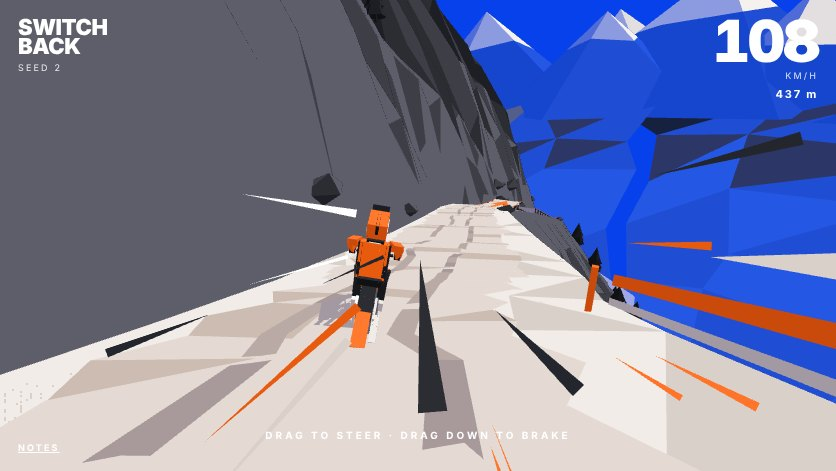
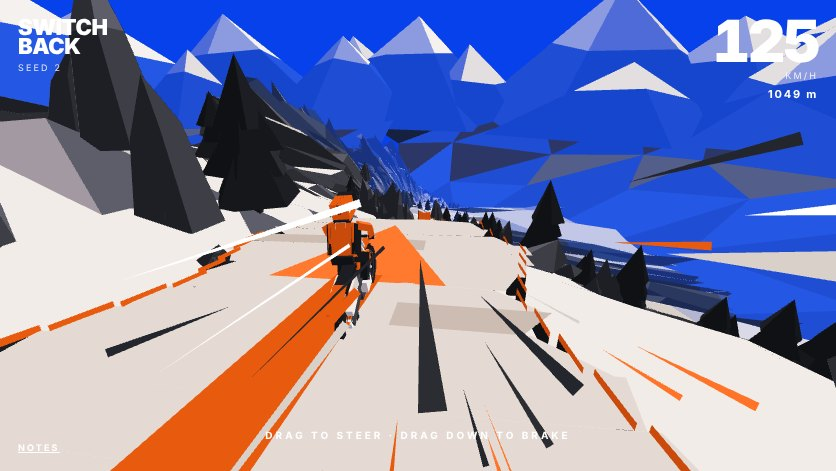
lab: Switchback rides free (no line-following), the rear slides, the mountain varies
The bike now has a heading and a travel: steering turns the bike, the
travel follows through the tyres' grip (less at speed and braking), so
hard turns step the rear out, scrubbing pace and throwing roost; hands
off it runs straight on (the ride test now checks that). Kinks are
short and sharp but rideable; the width never settles (pinches, wide
flats). The wall drifts from snowy bank to cliff, the drop from shelf
to sheer, with rock outcrops beside the route and crags on both sides.
The eye follows the travel, so a slide shows as the bike yawing.

Claude-Session: https://claude.ai/code/session_01D2Nx3PayKJtFYoab5A57H3

diff --git a/cells/lab/client/switchback/sim.ts b/cells/lab/client/switchback/sim.ts
@@ -1,9 +1,10 @@
 /**
  * Switchback's rider: arcade physics, readable at speed.
  *
- * On the ground the bike is held in the course's own frame: how far down the line (s), how far across it (u), and its
- * angle off the line (psi), which your steering sets; so with no input it follows the line round its bends, and a steer
- * carries you across it. The fall of the hill drives you on, the engine adds to it, the air holds you back. Off a ramp's lip,
+ * On the ground the bike goes where it's pointed: your steering turns the bike itself, and nothing turns it for you, so
+ * with no input it runs straight on and a bend has to be ridden. The way you're travelling follows the way the bike points
+ * through the tyres' grip, which gives at speed: turn hard and the rear steps out, the bike yawed past its line, sliding
+ * (scrubbing pace, throwing roost). Where you are on the course (s down it, u across it) is read back from the world. The fall of the hill drives you on, the engine adds to it, the air holds you back. Off a ramp's lip,
  * or over a crest steeper than you can hold, you fly (a ballistic arc, steerable a little), and come down on whatever's
  * under you. Off the drop side, too far: a fall, and back on the line. Into the wall: a glance off it, the pace lost.
  */
@@ -15,7 +16,8 @@ export interface Input { steer: number; brake: boolean }
 
 export class Rider {
   s = 2; u = 0; psi = 0; v = 18;
-  x = 0; y = 0; z = 0; vx = 0; vy = 0; vz = 0; heading = 0;
+  /** heading: the way the bike points; travel: the way it's going (the difference is the slide) */
+  x = 0; y = 0; z = 0; vx = 0; vy = 0; vz = 0; heading = 0; travel = 0; slip = 0;
   air = false; airT = 0; crashT = 0;
   /** for the eye and the model: lean into the turn, pitch with the ground or the flight, the suspension's give */
   lean = 0; pitch = 0; squash = 0; steerK = 0;
@@ -25,7 +27,7 @@ export class Rider {
   /** the ground's own vertical pace under you last step (NaN: just come down, nothing to compare yet) */
   private vyGround = NaN; private headingWas = 0;
   constructor(readonly course: Course) { this.place(); }
-  private place() { const p = this.course.point(this.s, this.u); this.x = p.x; this.y = p.y; this.z = p.z; this.heading = p.heading - this.psi; }
+  private place() { const p = this.course.point(this.s, this.u); this.x = p.x; this.y = p.y; this.z = p.z; this.heading = this.travel = p.heading - this.psi; this.slip = 0; }
   private ev(kind: Event['kind'], k: number) { this.events.push({ kind, x: this.x, y: this.y, z: this.z, k }); if (this.events.length > 64) this.events.shift(); }
 
   step(dt: number, inp: Input) {
@@ -48,14 +50,25 @@ export class Rider {
     let a = G * grade * 0.5 * 0.85 + (this.v < VMAX ? 11 * (1 - this.v / VMAX) : 0) - 0.0022 * this.v * this.v - (inp.brake ? 18 : 0);
     if (Math.abs(this.u) > half) a -= 6;
     this.v = Math.max(4, this.v + a * dt);
-    // (steering: your input sets the angle off the line, more at low speed; a little self-centring so a bend's held)
-    const want = this.steerK * (0.55 - 0.25 * Math.min(1, this.v / VMAX));
-    this.psi += (want - this.psi) * (1 - Math.exp(-dt * 6));
-    const ds = this.v * Math.cos(this.psi) * dt, du = this.v * Math.sin(this.psi) * dt;
-    const yBefore = this.y;
-    this.s += ds; this.u += du; this.dist += ds;
-    // (the wall, on the left: a glance off it; the drop, on the right: over the edge)
-    if (this.u < -half - 1.4) { this.u = -half - 1.4; this.psi = Math.abs(this.psi) * 0.5; this.v *= 0.72; this.ev('wall', this.v / VMAX); }
+    // (steering turns the bike, quicker at low speed; + is right, which turns the heading down)
+    const maxYaw = 3.4 / (1 + this.v / 60);
+    this.heading -= this.steerK * maxYaw * dt;
+    // (the travel follows the bike through the tyres' grip, less of it at speed and braking; the slide self-aligns slowly,
+    // and scrubs pace)
+    const grip = 10 - 6 * Math.min(1, this.v / VMAX) - (inp.brake ? 3 : 0);
+    this.travel += wrap(this.heading - this.travel) * (1 - Math.exp(-dt * grip));
+    this.slip = wrap(this.heading - this.travel);
+    this.heading -= this.slip * dt * 1.5;
+    this.v = Math.max(4, this.v - Math.abs(this.slip) * this.v * 0.5 * dt);
+    const yBefore = this.y, sWas = this.s;
+    this.x += Math.sin(this.travel) * this.v * dt; this.z += Math.cos(this.travel) * this.v * dt;
+    const loc = c.locate(this.x, this.z, this.s); this.s = loc.s; this.u = loc.u; this.dist += Math.max(0, this.s - sWas);
+    // (the wall, on the left: a glance off it, turned back along the line; the drop, on the right: over the edge)
+    if (this.u < -half - 1.4) {
+      this.u = -half - 1.4; const w = c.point(this.s, this.u); this.x = w.x; this.z = w.z;
+      this.travel = this.heading = w.heading - 0.12; this.v *= 0.72; this.ev('wall', this.v / VMAX);
+    }
+    this.psi = wrap(c.point(this.s, 0).heading - this.travel);
     const p = c.point(this.s, this.u);
     // (a ramp's lip, or a crest that falls away faster than you'd drop: you fly; off the edge, or onto nothing: you fall)
     if (here.feature === 'ramp' && p.feature !== 'ramp') { this.launch(yBefore, dt, false); return; }
@@ -68,20 +81,20 @@ export class Rider {
     // (the suspension takes up each step the ground throws you up by)
     if (!Number.isNaN(this.vyGround)) this.squash = Math.min(1, this.squash + Math.max(0, vyG - this.vyGround) * 0.07);
     this.vyGround = vyG;
-    this.x = p.x; this.y = p.y; this.z = p.z; this.heading = p.heading - this.psi;
-    const fx = Math.sin(this.heading), fz = Math.cos(this.heading);
+    this.y = p.y;
+    const fx = Math.sin(this.travel), fz = Math.cos(this.travel);
     this.vx = fx * this.v; this.vz = fz * this.v; this.vy = vyG;
     // (lean: what the turn asks, its pace times how fast the heading's swinging, against gravity; + leans right)
-    const yaw = wrap(this.heading - this.headingWas) / dt; this.headingWas = this.heading;
+    const yaw = wrap(this.travel - this.headingWas) / dt; this.headingWas = this.travel;
     this.lean += (Math.max(-0.95, Math.min(0.95, Math.atan2(-this.v * yaw, G))) - this.lean) * (1 - Math.exp(-dt * 8));
     this.pitch += (Math.atan2(-vyG, this.v) - this.pitch) * (1 - Math.exp(-dt * 10));
     this.squash *= Math.exp(-dt * 6);
-    if (Math.random() < dt * (6 + this.v * 0.6)) this.ev('roost', this.v / VMAX);
+    if (Math.random() < dt * (6 + this.v * 0.6 + Math.abs(this.slip) * 120)) this.ev('roost', Math.min(1, this.v / VMAX + Math.abs(this.slip) * 2));
   }
   private launch(yBefore: number, dt: number, edge: boolean, lip = !edge) {
     // (off: the flight keeps the way you were carried, and the rise the ground was giving you; a lip gives a little pop)
     this.air = true; this.airT = 0;
-    const fx = Math.sin(this.heading), fz = Math.cos(this.heading);
+    const fx = Math.sin(this.travel), fz = Math.cos(this.travel);
     this.vx = fx * this.v; this.vz = fz * this.v; this.vy = (this.vyGround || 0) + (lip ? 1.2 : 0);
     this.x += this.vx * dt; this.z += this.vz * dt; this.y = yBefore + this.vy * dt;
     if (lip) { this.jumps++; this.ev('launch', 1); }
@@ -93,7 +106,7 @@ export class Rider {
     const nvx = this.vx * c + this.vz * s, nvz = -this.vx * s + this.vz * c; this.vx = nvx; this.vz = nvz;
     this.vy -= G * dt; this.vx *= 1 - 0.002; this.vz *= 1 - 0.002;
     this.x += this.vx * dt; this.y += this.vy * dt; this.z += this.vz * dt;
-    this.heading = Math.atan2(this.vx, this.vz);
+    this.travel = Math.atan2(this.vx, this.vz); this.heading = this.travel + this.slip; this.slip *= Math.exp(-dt * 3);
     const loc = this.course.locate(this.x, this.z, this.s); this.s = loc.s; this.u = loc.u;
     const p = this.course.point(this.s, this.u), half = p.width / 2;
     this.pitch += (Math.atan2(-this.vy, Math.hypot(this.vx, this.vz)) * 0.8 - this.pitch) * (1 - Math.exp(-dt * 3));
@@ -104,9 +117,9 @@ export class Rider {
     if (over && this.y <= p.y && p.y - this.y > 1.2) { this.crash(); return; }
     if (over && this.y <= p.y) {
       // (down: on the line again, its pace the flight's along the line; a hard one squashes and costs a little)
-      const imp = -this.vy, along = this.vx * Math.sin(p.heading) + this.vz * Math.cos(p.heading);
-      this.air = false; this.y = p.y; this.v = Math.max(6, along * (imp > 14 ? 0.86 : imp > 8 ? 0.97 : 1));
-      this.psi = Math.max(-0.6, Math.min(0.6, Math.atan2(-this.vx * Math.cos(p.heading) + this.vz * Math.sin(p.heading), along)));
+      const imp = -this.vy;
+      this.air = false; this.y = p.y; this.v = Math.max(6, Math.hypot(this.vx, this.vz) * (imp > 14 ? 0.86 : imp > 8 ? 0.97 : 1));
+      this.travel = Math.atan2(this.vx, this.vz); this.headingWas = this.travel;
       this.bestAir = Math.max(this.bestAir, this.airT); this.squash = Math.min(1, imp / 12); this.vyGround = NaN;
       this.ev('land', Math.min(1, imp / 10));
       return;
@@ -117,8 +130,10 @@ export class Rider {
   private crash() { this.crashT = 1.1; this.crashes++; this.ev('crash', 1); this.air = true; }
 }
 
-/** a steer that keeps to the line (for `auto`, the preview and the tests): back toward the middle, a little ahead */
+/** a steer that keeps to the line (for `auto`, the preview and the tests): pure pursuit of a point on the line ahead,
+ * further ahead the faster you go, steering the way you're travelling (so a slide is ridden, not fought) */
 export function autoSteer(r: Rider) {
-  return Math.max(-1, Math.min(1, -r.u * 0.25 - r.psi * 1.5));
+  const P = r.course.point(r.s + 7 + r.v * 0.3, 0), want = Math.atan2(P.x - r.x, P.z - r.z);
+  return Math.max(-1, Math.min(1, -wrap(want - r.travel) * 4));
 }
 const wrap = (a: number) => Math.atan2(Math.sin(a), Math.cos(a));

diff --git a/cells/lab/client/switchback/mesh.ts b/cells/lab/client/switchback/mesh.ts
@@ -73,6 +73,18 @@ export class Mesh {
     }
     this.box([x, y, z], [1, 0, 0], [0, 1, 0], [0, 0, 1], [0, h * 0.08, 0], [h * 0.03, h * 0.09, h * 0.03], m);
   }
+  /** a crag: a few tall jagged rock towers leaning together */
+  crag(x: number, y: number, z: number, h: number, seed: number) {
+    const n = 2 + Math.floor(hash(seed, 1) * 3);
+    for (let t = 0; t < n; t++) {
+      const a = hash(seed, t, 2) * 6.28, d = t ? h * 0.25 * hash(seed, t, 3) : 0, hh = h * (t ? 0.45 + 0.4 * hash(seed, t, 4) : 1), r = hh * (0.28 + 0.14 * hash(seed, t, 5));
+      const cx = x + Math.cos(a) * d, cz = z + Math.sin(a) * d, sides = 4 + Math.floor(hash(seed, t, 6) * 2), lean = (hash(seed, t, 7) - 0.5) * r;
+      const base = Array.from({ length: sides }, (_, k) => { const b = (k / sides) * 6.28 + hash(seed, t, k, 8); const rr = r * (0.7 + 0.5 * hash(seed, t, k, 9)); return [cx + Math.cos(b) * rr, y - 1, cz + Math.sin(b) * rr]; });
+      const mid = base.map((p, k) => [cx + (p[0] - cx) * 0.55 + lean * 0.5, y + hh * (0.5 + 0.2 * hash(seed, t, k, 10)), cz + (p[2] - cz) * 0.55]);
+      const tip = [cx + lean, y + hh, cz + (hash(seed, t, 11) - 0.5) * r * 0.5];
+      for (let k = 0; k < sides; k++) { const k1 = (k + 1) % sides; this.quad(base[k], base[k1], mid[k1], mid[k], M.ROCK); this.tri(mid[k], mid[k1], tip, M.ROCK); }
+    }
+  }
   /** a faceted rock: a jittered octahedron */
   rock(x: number, y: number, z: number, r: number, seed: number, m: number = M.ROCK) {
     const j = (i: number) => 0.7 + 0.6 * hash(seed, i);
@@ -88,14 +100,30 @@ const DROP: [number, number][] = [[2.6, -0.05], [4.2, -2], [10, -10], [20, -24],
 export const CHUNK = 48, STEP = 4;
 
 /** the ground's height across the section at station i (no track lift; a kicker's gap is a ravine), for placing things */
+/** a smooth value noise along the course (for how the mountain's character changes as you go down it) */
+export function drift(seed: number, x: number, salt: number) {
+  const i = Math.floor(x), f = x - i, s = f * f * (3 - 2 * f);
+  return hash(seed, i, salt) * (1 - s) + hash(seed, i + 1, salt) * s;
+}
+/** the mountain's character at station i: how sheer the wall is (0 a snowy bank, 1 a cliff), how sheer the drop is (0 a
+ * shelf, 1 straight down), and how much of a rock outcrop stands between the route and the drop */
+export function character(c: Course, i: number) {
+  const wall = drift(c.seed, i / 70, 1), drop = drift(c.seed, i / 90, 2), k = drift(c.seed, i / 34, 3);
+  return { wall, drop, knob: Math.max(0, Math.min(1, (k - 0.6) / 0.25)) };
+}
+
 export function section(c: Course, i: number) {
   const st = c.at(i), half = st.width / 2, out: { u: number; y: number; ds: number }[] = [];
   const j = (k: number, amp: number) => (hash(c.seed, i, k) - 0.5) * amp;
-  for (let k = WALL.length - 1; k >= 0; k--) { const [du, dy] = WALL[k]; out.push({ u: -half - du + (k ? j(k, du * 0.3) : 0), y: st.y + dy + (k ? j(k + 20, 0.6 + dy * 0.3) : 0), ds: k > 1 ? j(k + 80, STEP * 0.9) : 0 }); }
+  const ch = character(c, i), wy = 0.25 + 0.95 * ch.wall, wu = 1.9 - 0.9 * ch.wall, dyk = 0.3 + 0.7 * ch.drop, duk = 1.9 - 0.9 * ch.drop;
+  for (let k = WALL.length - 1; k >= 0; k--) { const [du0, dy0] = WALL[k], du = du0 * (k ? wu : 1), dy = dy0 * wy; out.push({ u: -half - du + (k ? j(k, du * 0.3) : 0), y: st.y + dy + (k ? j(k + 20, 0.6 + dy * 0.35) : 0), ds: k > 1 ? j(k + 80, STEP * 0.9) : 0 }); }
   const gap = st.feature === 'gap';
   const under = st.feature === 'none' || st.feature === 'whoop' ? -0.08 : 0;
   out.push({ u: -half, y: st.y + under, ds: 0 }, { u: -half * 0.3, y: st.y - (gap ? 7 : -under), ds: 0 }, { u: half * 0.3, y: st.y - (gap ? 7 : -under), ds: 0 }, { u: half, y: st.y + under, ds: 0 });
-  for (let k = 0; k < DROP.length; k++) { const [du, dy] = DROP[k]; out.push({ u: half + du + (k ? j(k + 40, du * 0.2) : 0), y: st.y + dy + (k > 1 ? j(k + 60, 0.5 - dy * 0.18) : 0), ds: k > 1 ? j(k + 90, STEP * 0.9) : 0 }); }
+  // (the drop: a shelf where it's gentle, straight down where it's sheer; an outcrop of rock rising beside the route where
+  // the knob's up, the valley beyond it)
+  const knob = [0, 4.5, 7, 3, 0, 0, 0, 0];
+  for (let k = 0; k < DROP.length; k++) { const [du0, dy0] = DROP[k], du = du0 * (k ? duk : 1), dy = dy0 * (k ? dyk : 1) + knob[k] * ch.knob; out.push({ u: half + du + (k ? j(k + 40, du * 0.25) : 0), y: st.y + dy + (k > 1 ? j(k + 60, 0.6 - dy * 0.22) : 0), ds: k > 1 ? j(k + 90, STEP * 0.9) : 0 }); }
   return out;
 }
 
@@ -199,6 +227,16 @@ function dress(c: Course, m: Mesh, i: number, sec: { u: number; y: number; ds: n
   if (i % 3 === 0 && r > 0.9) {
     const u = -half - 9 - hash(c.seed, i, 104) * 25, y = groundAt(sec, u), p = c.point(i, u);
     m.pine(p.x, y - 0.3, p.z, 5 + hash(c.seed, i, 105) * 6, c.seed * 7919 + i);
+  }
+  // (crags: rock towers down the drop where it's a shelf, and on the wall where it's only a bank)
+  const chr = character(c, i);
+  if (i % 4 === 0 && hash(c.seed, i, 120) < 0.14 * (1.4 - chr.drop)) {
+    const u = half + 5 + hash(c.seed, i, 121) * 22, p = c.point(i, u);
+    m.crag(p.x, groundAt(sec, u), p.z, 4 + hash(c.seed, i, 122) * 9, c.seed * 131 + i);
+  }
+  if (i % 4 === 2 && hash(c.seed, i, 123) < 0.16 * (1.3 - chr.wall)) {
+    const u = -half - 3 - hash(c.seed, i, 124) * 14, p = c.point(i, u);
+    m.crag(p.x, groundAt(sec, u), p.z, 4 + hash(c.seed, i, 125) * 8, c.seed * 137 + i);
   }
   // (boulders: big jagged ones bedded along both sides of the route, smaller ones down the drop)
   if (r > 0.55 && r < 0.66) {

diff --git a/cells/lab/client/switchback/course.ts b/cells/lab/client/switchback/course.ts
@@ -35,7 +35,7 @@ export class Course {
   private r: () => number;
   /** what the laying is doing now: the turn it's making (rad/m), for how long, and the feature it's laying */
   private turn = 0; private turnLeft = 0; private grade = 0.22; private gradeTo = 0.22;
-  private width = 7; private widthTo = 7; private roughFrom = 0; private roughTo = 0; private roughLeft = 0; private roughLen = 1;
+  private width = 7; private widthTo = 7; private widthStep = 0; private wideLeft = 0; private roughFrom = 0; private roughTo = 0; private roughLeft = 0; private roughLen = 1;
   private plan: { kind: Feature; at: number }[] = [];
   private sinceKicker = 0;
   constructor(readonly seed: number) {
@@ -53,18 +53,26 @@ export class Course {
       // kink turns back toward the fall line once the route has wandered off it, so it keeps going down the valley)
       if (this.turnLeft <= 0) {
         if (this.turn !== 0 || i < 60) {
-          // (a leg: straight, its own width, for a while)
-          this.turn = 0; this.turnLeft = i < 60 ? 60 - i : 9 + r() * 24; this.widthTo = 5.2 + r() * 4;
+          // (a leg: straight, for a while)
+          this.turn = 0; this.turnLeft = i < 60 ? 60 - i : 12 + r() * 30;
           this.gradeTo = 0.14 + r() * 0.26;
         } else {
+          // (a kink: short and sharp, a few of them hard)
           const side = p.heading > 0.4 ? -1 : p.heading < -0.4 ? 1 : r() < 0.5 ? -1 : 1;
-          const sharp = r() < 0.35, len = 3 + Math.floor(r() * 3), ang = (sharp ? 0.45 + r() * 0.45 : 0.12 + r() * 0.3) * side;
+          const sharp = r() < 0.35, len = 7 + Math.floor(r() * 7), ang = (sharp ? 0.38 + r() * 0.34 : 0.1 + r() * 0.24) * side;
           this.turn = ang / len; this.turnLeft = len;
         }
       }
+      // (the width: never settled, a new one every few metres, joined straight; now and then a pinch between rocks, or
+      // a wide flat)
+      if (--this.wideLeft <= 0) {
+        const q = r();
+        this.widthTo = q < 0.15 ? 3.8 + r() * 0.8 : q > 0.85 ? 10 + r() * 3 : 5 + r() * 4.5;
+        this.wideLeft = 4 + Math.floor(r() * 8); this.widthStep = (this.widthTo - this.width) / this.wideLeft;
+      }
       this.turnLeft--;
       this.grade += (this.gradeTo - this.grade) * 0.08;
-      this.width += (this.widthTo - this.width) * 0.18;
+      this.width += this.widthStep;
       // (the rough: the surface steps up and down over rock, a new height every few metres, joined straight)
       if (--this.roughLeft <= 0) { this.roughFrom = this.roughTo; this.roughTo = r() * 0.22; this.roughLen = this.roughLeft = 5 + Math.floor(r() * 6); }
       const rough = i < 40 ? 0 : this.roughTo + (this.roughFrom - this.roughTo) * (this.roughLeft / this.roughLen);

diff --git a/cells/lab/client/switchback/main.ts b/cells/lab/client/switchback/main.ts
@@ -45,10 +45,11 @@ for (let t = 0; t < T0; t += 1 / 120) rider.step(1 / 120, { steer: autoSteer(rid
 rider.events.length = 0;
 
 // (the chase eye: behind and above, a touch to the wall side, swinging round after the bike, never into the ground)
-const cam = { h: rider.heading, eye: [rider.x, rider.y + 4, rider.z - 8], shake: 0, fovKick: 0 };
+const cam = { h: rider.travel, eye: [rider.x, rider.y + 4, rider.z - 8], shake: 0, fovKick: 0 };
 function view(dt: number, t: number): View {
   const k = 1 - Math.exp(-dt * (rider.air ? 1.6 : 3.2));
-  if (rider.crashT <= 0) cam.h += Math.atan2(Math.sin(rider.heading - cam.h), Math.cos(rider.heading - cam.h)) * k;
+  // (after the way you're going, not the way the bike points, so a slide shows as the bike yawed across the frame)
+  if (rider.crashT <= 0) cam.h += Math.atan2(Math.sin(rider.travel - cam.h), Math.cos(rider.travel - cam.h)) * k;
   const fx = Math.sin(cam.h), fz = Math.cos(cam.h), rx = -Math.cos(cam.h), rz = Math.sin(cam.h);
   const pace = Math.min(1, Math.hypot(rider.vx, rider.vz) / VMAX), back = 4.6 + pace * 1.1, high = 3.3 + pace * 0.4, side = 1.5;
   const want = [rider.x - fx * back + rx * side, rider.y + high, rider.z - fz * back + rz * side];

diff --git a/cells/lab/static/switchback.md b/cells/lab/static/switchback.md
@@ -6,17 +6,17 @@ A downhill motocross run down a mountain made as you ride it. The style target i
 
 ## Riding
 
-Drag left or right to steer: the drag's distance from where it began sets how hard. The bike follows the line round its bends by itself, so you choose where on the road you ride, not how to stay on it. Drag down (or hold ↓ / S) to brake; ← → or A D steer from a keyboard. The engine and the hill keep you going. Kickers (a ramp painted with an orange arrow, a gap over a ravine, a landing deck, both on black trestles) launch you; whoops (a run of rollers) throw you at speed; any crest that falls away faster than you would drop puts you in the air. In the air you can turn a little. The wall on the left glances you off it and costs pace; over the fence on the right is the drop, and that run ends there: you're back on the line where you fell.
+Drag left or right to steer: the drag's distance from where it began sets how hard you turn. Nothing steers for you: the bike goes where it points, and with no input it runs straight on, so every bend has to be ridden. Turn hard at speed and the rear steps out: the way you're travelling follows the way the bike points only as far as the tyres grip (less at speed, less braking), so the bike yaws past its line and slides, scrubbing pace and throwing roost, until it lines up again. Drag down (or hold ↓ / S) to brake; ← → or A D steer from a keyboard. The engine and the hill keep you going. Kickers (a ramp painted with an orange arrow, a gap over a ravine, a landing deck, both on black trestles) launch you; whoops (a run of rollers) throw you at speed; any crest that falls away faster than you would drop puts you in the air. In the air you can turn a little. The wall on the left glances you off it and costs pace; over the fence on the right is the drop, and that run ends there: you're back on the line where you fell.
 
 The rider is yours from the start; `auto` (a debug and test flag; the preview uses it) hands the steering to the sim's own rider. The eye rides over your right shoulder, the drop side, so the wall rises beyond the rider and the valley opens under you.
 
 ## The course (`course.ts`)
 
-The line is laid a metre at a time from the seed, as an off-road route picks its way down rock rather than a road's arcs: straight legs, each its own width, broken by sharp kinks (a few metres each, some hard; always turning back toward the fall line once the route has wandered, so it keeps going down the valley), a fall that steepens and eases, and a rough surface that steps up and down over rock, a new height every few metres joined straight. On the legs, features: a kicker every so often (a 14 m ramp, an 18 m gap, a 36 m deck), whoops between. The mountain stands on the left (a rock wall going up) and falls away on the right, as a cliff road does. Everything asks the course the same things: where the line is at distance `s`, the surface height at (s, u) with u across it, and whether there's surface at all (a gap has none).
+The line is laid a metre at a time from the seed, as an off-road route picks its way down rock rather than a road's arcs: straight legs broken by short, sharp kinks (seven to fourteen metres each, some hard; always turning back toward the fall line once the route has wandered, so it keeps going down the valley), a width that never settles (a new one every few metres, joined straight; now and then a pinch between rocks under 5 m, or a wide flat over 10), a fall that steepens and eases, and a rough surface that steps up and down over rock, a new height every few metres joined straight. On the legs, features: a kicker every so often (a 14 m ramp, an 18 m gap, a 36 m deck), whoops between. The mountain stands on the left (a rock wall going up) and falls away on the right, as a cliff road does. Everything asks the course the same things: where the line is at distance `s`, the surface height at (s, u) with u across it, and whether there's surface at all (a gap has none).
 
 ## The rider (`sim.ts`)
 
-Arcade physics in the course's own frame: how far down the line, how far across, and the angle off it, which your steering sets. The fall of the hill and the engine drive you, the air holds you back, the loose shoulder slows you. The lean is what the turn asks (pace times how fast the heading swings, against gravity). The engine pulls hard toward 165 km/h; a run averages well over 100. Off a lip you fly; off a crest too, where the ground a tenth of a second on falls away below the arc you'd fly by more than the suspension takes up (so the rough rattles you without throwing you every step). You fly a ballistic arc; you land along whatever's under you, a hard landing squashing the suspension and costing pace; landing short into a deck's face, or falling far below the road, is a crash.
+Arcade physics in the world: the bike has a heading (where it points) and a travel (where it's going); steering turns the heading, quicker at low speed; the travel follows through the grip; where you are on the course (how far down, how far across) is read back from your position. The fall of the hill and the engine drive you, the air holds you back, the loose shoulder slows you. The lean is what the turn asks (pace times how fast the heading swings, against gravity). The engine pulls hard toward 165 km/h; a run averages well over 100. Off a lip you fly; off a crest too, where the ground a tenth of a second on falls away below the arc you'd fly by more than the suspension takes up (so the rough rattles you without throwing you every step). You fly a ballistic arc; you land along whatever's under you, a hard landing squashing the suspension and costing pace; landing short into a deck's face, or falling far below the road, is a crash.
 
 ## The bike and rider
 
@@ -26,7 +26,7 @@ A motocross bike in its real proportions: a 1.48 m wheelbase, a 21-inch front wh
 
 Every triangle has one material and one tone. The renderer takes each face's normal from the screen (so every face is flat), and its light, nudged by its tone, picks one of its material's four colours, all taken from the target: pale snow, packed track, charcoal rock, orange, black, white, the ranges' blues. So planes lit alike still break into different greys, as a painter sets them. Distance doesn't fade smoothly: it steps, four hard bands toward the valley's blues, each face keeping its band so the far slopes stay faceted. The ranges and the valley floor (with its river) are drawn round the eye, far off. The rider's shadow is the bike itself flattened along the sun onto the ground.
 
-The world is built in 48-metre chunks: a cross-section every four metres, a few big planes from high up the wall to far down the drop, jittered hard in all three directions so its faces break into rock, rock where it's steep and snow where it isn't; the track over it, its edges ragged, its ruts straight-cut; the fence (posts, an orange tape and a white one), flags on the wall side, kickers on trestles, big jagged boulders bedded along both sides, a few pines.
+The world is built in 48-metre chunks: a cross-section every four metres, a few big planes from high up the wall to far down the drop, jittered hard in all three directions so its faces break into rock, its character drifting as you go down: the wall from a snowy bank to a sheer cliff, the drop from a shelf to straight down, now and then an outcrop of rock rising between the route and the valley; rock where it's steep and snow where it isn't; the track over it, its edges ragged, its ruts straight-cut; the fence (posts, an orange tape and a white one), flags on the wall side, kickers on trestles, big jagged boulders bedded along both sides, crags (clusters of leaning rock towers) down the shelves and up the banks, a few pines.
 
 ## Speed, drawn
 
@@ -43,4 +43,4 @@ Motion is drawn as vector shapes on a canvas over the world, never as blurred pi
 
 ## Tests
 
-`node cells/lab/devtools/switchback-run.mjs [seconds] [seeds…]` rides the auto rider down seeds 1–3 for three minutes with no page: few crashes, kickers cleared, pace held. `node cells/lab/devtools/switchback-shot.mjs [query…]` renders pinned moments at a landscape and a phone size beside the target, in `devtools/out/switchback-board.png`.
+`node cells/lab/devtools/switchback-run.mjs [seconds] [seeds…]` rides the auto rider down seeds 1–3 for three minutes with no page (few crashes, kickers cleared, pace held), and checks that hands off, nothing steers for you: the bike leaves the line at the first real bend. `node cells/lab/devtools/switchback-shot.mjs [query…]` renders pinned moments at a landscape and a phone size beside the target, in `devtools/out/switchback-board.png`.
